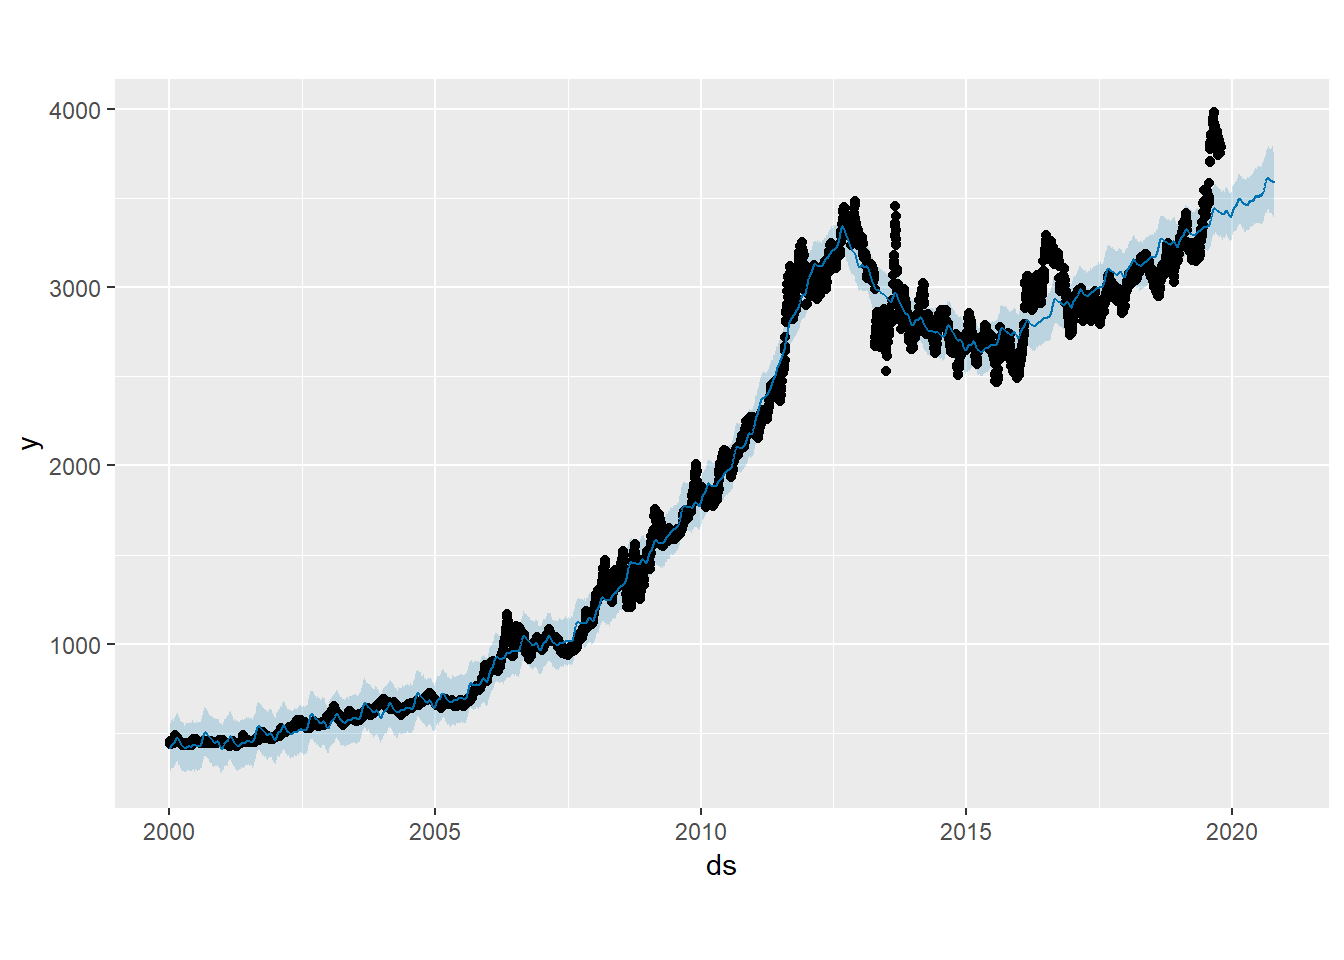
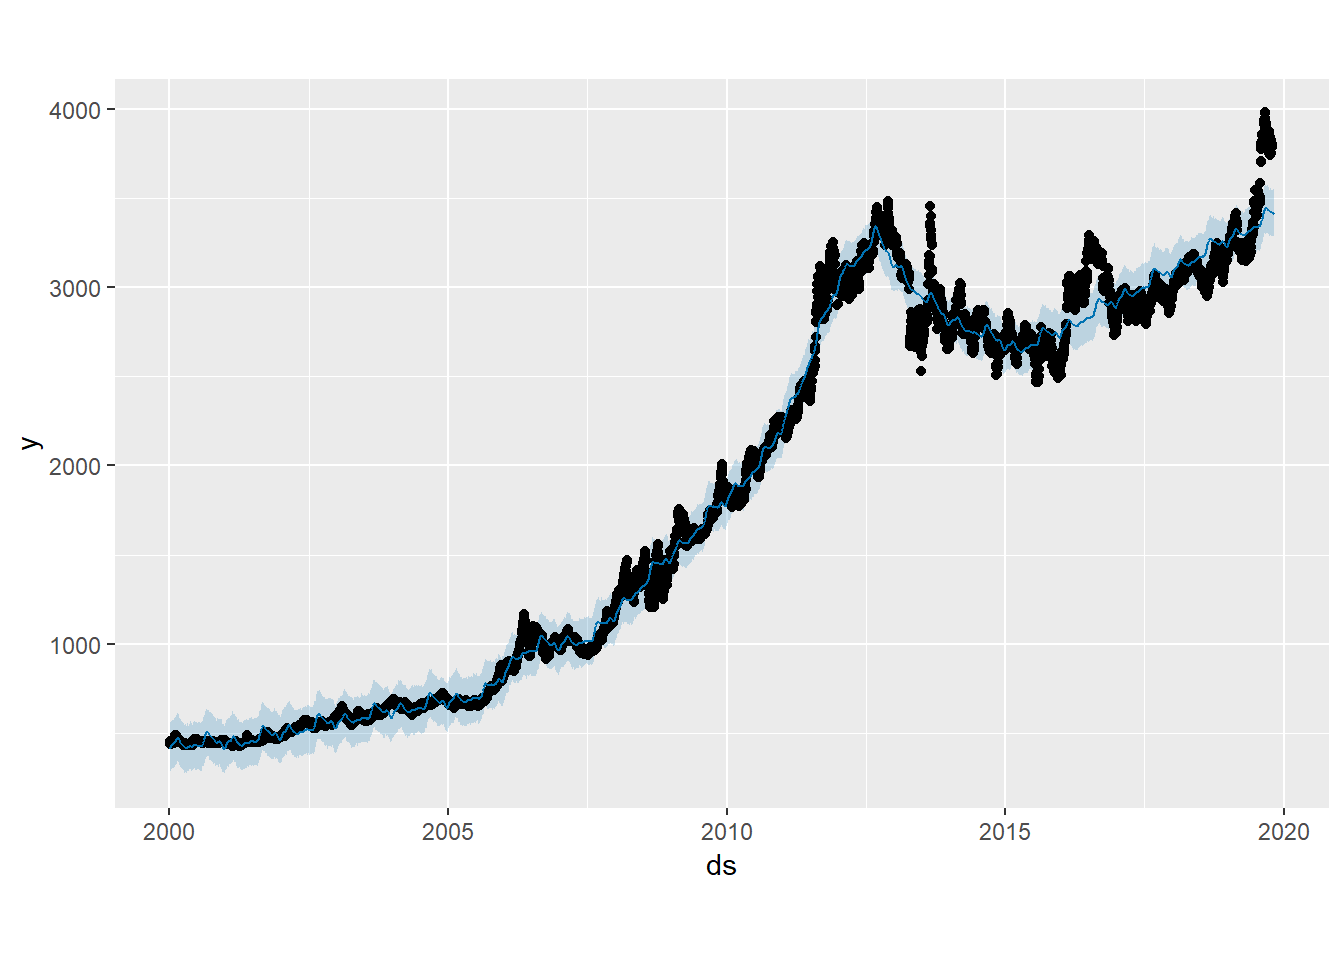
update

diff --git a/post/time-series-data-analysis/index.html b/post/time-series-data-analysis/index.html
@@ -18,7 +18,7 @@
   },
   "genre": "post",
   "keywords": "Gold, Prophet, Time series",
-  "wordcount":  280 ,
+  "wordcount":  993 ,
   "url": "https:\/\/laxmikants.github.io\/post\/time-series-data-analysis\/",
   "datePublished": "2018-09-05T00:00:00\x2b00:00",
   "dateModified": "2018-09-05T00:00:00\x2b00:00",
@@ -64,7 +64,7 @@
   "headline": "Time-Series Forecasting",
   "description" : "Time-Series data analysis",
   "inLanguage" : "en",
-  "wordCount":  280 ,
+  "wordCount":  993 ,
   "datePublished" : "2018-09-05T00:00:00",
   "dateModified" : "2018-09-05T00:00:00",
   "image" : "https:\/\/laxmikants.github.io\/img\/cover.png",
@@ -274,10 +274,10 @@
   <i class="fas fa-calendar"></i>&nbsp;Posted on September 5, 2018
   
   
-    &nbsp;|&nbsp;<i class="fas fa-clock"></i>&nbsp;2&nbsp;minutes
+    &nbsp;|&nbsp;<i class="fas fa-clock"></i>&nbsp;5&nbsp;minutes
   
   
-    &nbsp;|&nbsp;<i class="fas fa-book"></i>&nbsp;280&nbsp;words
+    &nbsp;|&nbsp;<i class="fas fa-book"></i>&nbsp;993&nbsp;words
   
   
     
@@ -302,89 +302,125 @@
   <div class="row">
     <div class="col-lg-8 col-lg-offset-2 col-md-10 col-md-offset-1">
       <article role="main" class="blog-post">
-        <div id="loading-all-libraries" class="section level4">
-<h4>Loading all libraries</h4>
+        <div id="what-is-time-series" class="section level2">
+<h2>What is time series?</h2>
+<p>A time series is a sequence of observations collected at some time intervals.
+Time plays an important role here. The observations collected are dependent on the time at which it is collected.
+The sale of an item say Turkey wings in a retail store like Walmart will be a time series.
+The sale could be at daily level or weekly level.
+The number of people flying from Bangalore to Kolkata on daily basis is a time series.
+Time is important here. During Durga Puja holidays, this number would be humongous compared to the other days. This is know as seasonality.</p>
+<p>Time-series forecasting uses historical time basesd data to forecast a variable for example</p>
+<ul>
+<li>The demand for a grocery product at a supermarket each day</li>
+<li>The number of downloads of an app in a country for the next month</li>
+<li>Product sales in units sold each day in a retail store</li>
+<li>Yearly unemployment rate</li>
+<li>The closing price of a stock</li>
+<li>Expected yearly yield of a crop</li>
+<li>Population growth in a country</li>
+<li>Daily demand for a bus/airline/train</li>
+</ul>
+<div id="what-is-the-difference-between-a-time-series-and-a-normal-series" class="section level3">
+<h3>What is the difference between a time series and a normal series?</h3>
+<p>Time component is important here. The time series is dependent on the time. However a normal series say 1, 2, 3…100 has no time component to it.
+When the value that a series will take depends on the time it was recorded, it is a time series.</p>
+</div>
+<div id="how-to-define-a-time-series-object-in-r" class="section level3">
+<h3>How to define a time series object in R</h3>
+<p>ts() function is used for equally spaced time series data, it can be at any level. Daily, weekly, monthly, quarterly, yearly or even at minutes level.
+If you wish to use unequally spaced observations then you will have to use other packages. ts() is used for numerical observations and you can set frequency of the data. ts() takes a single frequency argument.</p>
+</div>
+<div id="frequency" class="section level3">
+<h3>Frequency</h3>
+<p>When setting the frequency, many people are confused what should be the correct value. This is the simple definition of frequency. Frequency is the number of observations per cycle. Now, how you define what a cycle is for a time series?</p>
+<p>Say, you have electricity consumption of Bangalore at hourly level. The cycle could be a day, a week or even annual. I will cover what frequency would be for all different type of time series.</p>
+<p>Before we proceed I will reiterate this.</p>
+<blockquote>
+<p>Frequency is the number of observations per cycle.</p>
+</blockquote>
+<p>We will see what values frequency takes for different interval time series.</p>
+<p><strong>Daily data</strong> There could be a weekly cycle or annual cycle. So the frequency could be 7 or 365.25.</p>
+<p>Some of the years have 366 days (leap years). So if your time series data has longer periods, it is better to use frequency = 365.25. This takes care of the leap year as well which may come in your data.</p>
+<p><strong>Weekly data</strong> There could be an annual cycle. frequency = 52 and if you want to take care of leap years then use frequency = 365.25/7</p>
+<p><strong>Monthly data</strong> Cycle is of one year. So frequency = 12</p>
+<p><strong>Quarterly data</strong> Again cycle is of one year. So frequency = 4</p>
+<p><strong>Yearly data</strong> Frequency = 1</p>
+</div>
+<div id="some-useful-packages" class="section level3">
+<h3>Some useful packages</h3>
+<ol style="list-style-type: decimal">
+<li><p>forecast: For forecasting functions</p></li>
+<li><p>tseries: For unit root tests and GARC models</p></li>
+<li><p>Mcomp: Time series data from forecasting competitions</p></li>
+<li><p>fma: For data</p></li>
+<li><p>expsmooth: For data</p></li>
+<li><p>fpp: For data</p></li>
+<li><p>ARIMA</p></li>
+<li><p>prophet</p></li>
+</ol>
+<p><strong>Now, let’s understand prophet</strong></p>
+<p>The idea behind Prophet is quite simple. It represents a <strong>time-series as a combination of trend, seasonality and holidays</strong>. Patterns are represented at different scales — daily, weekly, seasonally, and yearly — along with an overall trend. For example, even though the usage of bikes is higher during summer, there exists an overall trend based on the population size of the city. This decomposable time series model can be represented by the following equation:</p>
+<div class="figure">
+<img src="/img/ts.png" alt="Capture10" />
+<p class="caption">Capture10</p>
+</div>
+<p>where:</p>
+<ul>
+<li><strong>g(t)</strong> is the trend function which models non-periodic changes in the time series</li>
+<li><strong>s(t)</strong> represents periodic changes (e.g., weekly and yearly seasonality)</li>
+<li><strong>h(t)</strong> represents the effects of holidays</li>
+<li><strong>εt</strong>: the error term represents information that was missed by the model</li>
+</ul>
+</div>
+<div id="trend" class="section level3">
+<h3>Trend</h3>
+<p>Prophet provides two variants for the trend function, g(t) which are logistic growth modeling non-linear growth and constant rate of growth or Piecewise Linear Model.</p>
+</div>
+<div id="seasonality" class="section level3">
+<h3>Seasonality</h3>
+<p>The seasonal component, <em>s(t)</em> allows to flexibly model <strong>periodic changes due to weekly and yearly seasonality</strong>. For instance, a 5-day work week can produce effects on a time series that repeat each week, while vacation schedules and school breaks can produce effects that repeat each year. Prophet models these periodic effects using Fourier series.</p>
+</div>
+<div id="holidays-and-events" class="section level3">
+<h3>Holidays and Events</h3>
+<p>Holidays and events provide large but <strong>predictable shocks</strong> to many business time series and often do not follow a periodic pattern, so their effects are not well modeled by a smooth cycle. For instance, many countries around the world have major holidays that follow the lunar calendar. The impact of a particular holiday is often similar year after year, and it is important to incorporate it into the forecast. Another example would be that of Black Fridays. So if you have holidays or other recurring events that you’d like to model, Prophet allows you to provide a custom list of past and future events.</p>
+<p>For those interested in understanding the complete behind-the-scenes of Prophet, you can read to the original paper <a href="https://peerj.com/preprints/3190/">“Forecasting at scale”</a>.</p>
+<p><strong>Now, let’s implement prophet in R</strong></p>
+<div id="implementing-prophent-in-r" class="section level4">
+<h4>Implementing prophent in R</h4>
 <pre class="r"><code>library(Quandl)
 library(quantmod)
-library(prophet)</code></pre>
-</div>
-<div id="setting-up-api-keys" class="section level4">
-<h4>Setting up api-keys</h4>
-<pre class="r"><code>Quandl.api_key(&quot;YBM9uPgpnsaDYPkAn539&quot;)</code></pre>
-</div>
-<div id="getting-the-data" class="section level4">
-<h4>Getting the data</h4>
-<pre class="r"><code>daily_gold = Quandl(&quot;WGC/GOLD_DAILY_INR&quot;,collapse=&quot;daily&quot;,start_date=&quot;2000-01-01&quot;,end_date = &quot;2019-10-19&quot;,type=&quot;raw&quot;)
+library(prophet)
+
+Quandl.api_key(&quot;YBM9uPgpnsaDYPkAn539&quot;)
+
+daily_gold = Quandl(&quot;WGC/GOLD_DAILY_INR&quot;,collapse=&quot;daily&quot;,start_date=&quot;2000-01-01&quot;,end_date = &quot;2019-10-19&quot;,type=&quot;raw&quot;)
 
 names(daily_gold) &lt;- c(&#39;ds&#39;,&#39;y&#39;)
 
-daily_gold[2] &lt;- daily_gold[2] / 28</code></pre>
-</div>
-<div id="creating-prophet-model" class="section level4">
-<h4>Creating prophet model</h4>
-<pre class="r"><code>model = prophet(daily_gold)</code></pre>
-</div>
-<div id="create-a-holder-for-future-dates" class="section level4">
-<h4>Create a holder for future dates</h4>
-<pre class="r"><code>future &lt;- make_future_dataframe(model, periods = 365 * 1)
-tail(future)</code></pre>
-<pre><code>##              ds
-## 5525 2020-10-12
-## 5526 2020-10-13
-## 5527 2020-10-14
-## 5528 2020-10-15
-## 5529 2020-10-16
-## 5530 2020-10-17</code></pre>
-</div>
-<div id="predict-future-trend" class="section level4">
-<h4>Predict future trend</h4>
-<pre class="r"><code>forecast &lt;- predict(model, future)
-tail(forecast)</code></pre>
-<pre><code>##              ds    trend additive_terms additive_terms_lower
-## 5525 2020-10-12 3573.003       18.43235             18.43235
-## 5526 2020-10-13 3573.468       18.06078             18.06078
-## 5527 2020-10-14 3573.932       16.32348             16.32348
-## 5528 2020-10-15 3574.396       14.87895             14.87895
-## 5529 2020-10-16 3574.861       12.87699             12.87699
-## 5530 2020-10-17 3575.325       18.33040             18.33040
-##      additive_terms_upper    weekly weekly_lower weekly_upper   yearly
-## 5525             18.43235 -1.537761    -1.537761    -1.537761 19.97012
-## 5526             18.06078 -0.839597    -0.839597    -0.839597 18.90037
-## 5527             16.32348 -1.465819    -1.465819    -1.465819 17.78930
-## 5528             14.87895 -1.760466    -1.760466    -1.760466 16.63942
-## 5529             12.87699 -2.577571    -2.577571    -2.577571 15.45456
-## 5530             18.33040  4.090604     4.090604     4.090604 14.23979
-##      yearly_lower yearly_upper multiplicative_terms
-## 5525     19.97012     19.97012                    0
-## 5526     18.90037     18.90037                    0
-## 5527     17.78930     17.78930                    0
-## 5528     16.63942     16.63942                    0
-## 5529     15.45456     15.45456                    0
-## 5530     14.23979     14.23979                    0
-##      multiplicative_terms_lower multiplicative_terms_upper yhat_lower
-## 5525                          0                          0   3392.180
-## 5526                          0                          0   3402.687
-## 5527                          0                          0   3403.121
-## 5528                          0                          0   3401.461
-## 5529                          0                          0   3387.185
-## 5530                          0                          0   3411.740
-##      yhat_upper trend_lower trend_upper     yhat
-## 5525   3787.536    3452.411    3706.036 3591.436
-## 5526   3775.463    3452.504    3707.268 3591.528
-## 5527   3772.297    3452.597    3708.501 3590.255
-## 5528   3758.435    3452.636    3709.734 3589.275
-## 5529   3797.765    3452.663    3710.967 3587.738
-## 5530   3766.625    3452.412    3712.667 3593.655</code></pre>
-</div>
-<div id="plot-forecast" class="section level4">
-<h4>Plot forecast</h4>
-<pre class="r"><code>plot(model,forecast)</code></pre>
-<p><img src="/post/2018-09-05-TimeSeriesForecasting_files/figure-html/plot-forecast-1.png" width="672" /></p>
-</div>
-<div id="plot-forecast-components" class="section level4">
-<h4>Plot forecast components</h4>
+daily_gold[2] &lt;- daily_gold[2] / 28
+
+model = prophet(daily_gold)
+
+future &lt;- make_future_dataframe(model, periods = 10)
+
+
+forecast &lt;- predict(model, future)
+
+
+plot(model,forecast)</code></pre>
+<p><img src="/post/2018-09-05-TimeSeriesForecasting_files/figure-html/load-all-libraries-1.png" width="672" /></p>
 <pre class="r"><code>prophet_plot_components(model,forecast)</code></pre>
-<p><img src="/post/2018-09-05-TimeSeriesForecasting_files/figure-html/plot-forecast-components-1.png" width="672" /></p>
+<p><img src="/post/2018-09-05-TimeSeriesForecasting_files/figure-html/load-all-libraries-2.png" width="672" /></p>
+</div>
+<div id="summary" class="section level4">
+<h4>Summary</h4>
+<p>The main aim of time-series modeling is to carefully collect
+and regorously study the past observations of the time-series to develop an appropriate model which describes the inherent structure of the series.
+The model is then used to generate the future values for the series.
+Time series forecasting is thus can be termed as act of predicting the future by understanding the past.</p>
+</div>
+</div>
 </div>
 
 

diff --git a/categories/blogdown/index.html b/categories/blogdown/index.html
@@ -232,10 +232,10 @@
   <i class="fas fa-calendar"></i>&nbsp;Posted on September 5, 2018
   
   
-    &nbsp;|&nbsp;<i class="fas fa-clock"></i>&nbsp;2&nbsp;minutes
+    &nbsp;|&nbsp;<i class="fas fa-clock"></i>&nbsp;5&nbsp;minutes
   
   
-    &nbsp;|&nbsp;<i class="fas fa-book"></i>&nbsp;280&nbsp;words
+    &nbsp;|&nbsp;<i class="fas fa-book"></i>&nbsp;993&nbsp;words
   
   
     

diff --git a/index.html b/index.html
@@ -307,10 +307,10 @@
   <i class="fas fa-calendar"></i>&nbsp;Posted on September 5, 2018
   
   
-    &nbsp;|&nbsp;<i class="fas fa-clock"></i>&nbsp;2&nbsp;minutes
+    &nbsp;|&nbsp;<i class="fas fa-clock"></i>&nbsp;5&nbsp;minutes
   
   
-    &nbsp;|&nbsp;<i class="fas fa-book"></i>&nbsp;280&nbsp;words
+    &nbsp;|&nbsp;<i class="fas fa-book"></i>&nbsp;993&nbsp;words
   
   
     

diff --git a/post/index.html b/post/index.html
@@ -249,10 +249,10 @@
   <i class="fas fa-calendar"></i>&nbsp;Posted on September 5, 2018
   
   
-    &nbsp;|&nbsp;<i class="fas fa-clock"></i>&nbsp;2&nbsp;minutes
+    &nbsp;|&nbsp;<i class="fas fa-clock"></i>&nbsp;5&nbsp;minutes
   
   
-    &nbsp;|&nbsp;<i class="fas fa-book"></i>&nbsp;280&nbsp;words
+    &nbsp;|&nbsp;<i class="fas fa-book"></i>&nbsp;993&nbsp;words
   
   
     

diff --git a/tags/gold/index.html b/tags/gold/index.html
@@ -232,10 +232,10 @@
   <i class="fas fa-calendar"></i>&nbsp;Posted on September 5, 2018
   
   
-    &nbsp;|&nbsp;<i class="fas fa-clock"></i>&nbsp;2&nbsp;minutes
+    &nbsp;|&nbsp;<i class="fas fa-clock"></i>&nbsp;5&nbsp;minutes
   
   
-    &nbsp;|&nbsp;<i class="fas fa-book"></i>&nbsp;280&nbsp;words
+    &nbsp;|&nbsp;<i class="fas fa-book"></i>&nbsp;993&nbsp;words
   
   
     

diff --git a/tags/prophet/index.html b/tags/prophet/index.html
@@ -232,10 +232,10 @@
   <i class="fas fa-calendar"></i>&nbsp;Posted on September 5, 2018
   
   
-    &nbsp;|&nbsp;<i class="fas fa-clock"></i>&nbsp;2&nbsp;minutes
+    &nbsp;|&nbsp;<i class="fas fa-clock"></i>&nbsp;5&nbsp;minutes
   
   
-    &nbsp;|&nbsp;<i class="fas fa-book"></i>&nbsp;280&nbsp;words
+    &nbsp;|&nbsp;<i class="fas fa-book"></i>&nbsp;993&nbsp;words
   
   
     

diff --git a/tags/time-series/index.html b/tags/time-series/index.html
@@ -232,10 +232,10 @@
   <i class="fas fa-calendar"></i>&nbsp;Posted on September 5, 2018
   
   
-    &nbsp;|&nbsp;<i class="fas fa-clock"></i>&nbsp;2&nbsp;minutes
+    &nbsp;|&nbsp;<i class="fas fa-clock"></i>&nbsp;5&nbsp;minutes
   
   
-    &nbsp;|&nbsp;<i class="fas fa-book"></i>&nbsp;280&nbsp;words
+    &nbsp;|&nbsp;<i class="fas fa-book"></i>&nbsp;993&nbsp;words
   
   
     
